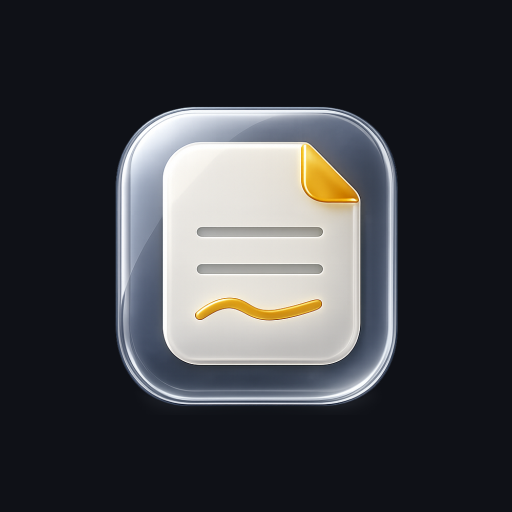
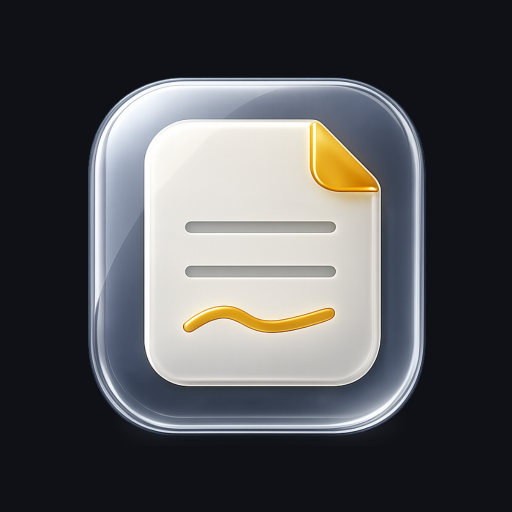
ui: maskable 아이콘 확대 + 북 테마를 전자책 리더처럼
[1. 맥에서 아이콘이 작게 보이던 문제]
크롬은 설치형 앱 아이콘으로 maskable을 쓰는데, 그건 안드로이드 원형 크롭
대비로 0.62(실제 아트 55%)로 잡아둔 값이라 맥/데스크톱에서는 여백만 커 보였다.
- 0.62 → 0.74 (실제 아트 66%)
- 안전구역 계산상 내접 정사각형은 0.566이지만, 실제 마스크는 대부분
  squircle/둥근사각형이라 훨씬 크고 우리 아트도 둥근 사각형이라
  모서리가 조금 잘려도 티가 안 난다. 0.62는 지나치게 보수적이었다

[2. 북 테마 — 전자책 느낌]
기존엔 본문 폰트만 세리프라 "책"보다 "베이지 테마"에 가까웠다.
읽는 느낌을 만드는 건 색이 아니라 활자·행간·한 줄 길이·대비라서 그쪽을 손봤다.

- 활자: 제목·목록·홈 카드까지 세리프로 통일. UI만 산세리프로 남으면
  책 안에 앱이 끼어든 것처럼 보인다
- 행간/폭: 실제 편집기가 CodeMirror라 .bear-editor가 아니라
  .cm-content / .cm-line을 직접 잡아야 했다 (CM이 자체 font-size·max-width를
  갖고 있어 .bear-editor 지정은 전달되지 않음).
  15.5px / 줄높이 34px / 한 줄 34em 제한. 넓은 화면에서 글이 끝까지 늘어지면
  다음 줄 첫 글자를 찾기 어려워 읽는 속도가 떨어진다
- .cm-line의 공책 괘선(border-bottom) 제거 — 전자책엔 줄이 없다
- 대비: 잉크 #3D2A18 → #4A3927, 종이 #F4ECD8 → #F3EAD6.
  전자잉크는 새까맣지 않다
- 목록 구분선 제거, 카드 테두리를 종이색에 가깝게
- 모바일은 기본 규칙(16.5px)에 맞추고 한 줄 제한 해제

Changed region(s): [[0.1562, 0.125, 0.8438, 0.875]]

diff --git a/styles.css b/styles.css
@@ -250,15 +250,90 @@ body[data-theme="book"] {
   --green:#5E7A4E; --orange:#B58840; --red:#A85647; --blue:#5C7A8C; --pink:#A8784C; --cyan:#5E7A4E;
   color-scheme: light;
 }
-/* Book 본문 — 이롭게 바탕 세리프 (책 읽는 느낌) */
+/* ── Book 테마 — 전자책 리더처럼 ──────────────────────────────
+   기존엔 본문 폰트만 세리프라 "책"보다 "베이지 테마"에 가까웠다.
+   읽는 느낌을 만드는 건 색이 아니라 (1) 활자 (2) 행간 (3) 한 줄 길이
+   (4) 낮은 대비 — 네 가지라서 그쪽을 손본다. */
+
+/* (1) 활자 — 본문뿐 아니라 제목·목록·태그까지 세리프로 통일.
+   UI만 산세리프로 남으면 책 안에 앱이 끼어든 것처럼 보인다. */
 body[data-theme="book"] #memo-live-editor .cm-content,
 body[data-theme="book"] .bear-editor,
 body[data-theme="book"] .memo-editor textarea,
 body[data-theme="book"] .markdown-body,
 body[data-theme="book"] .memo-editor-header input,
-body[data-theme="book"] .journal-textarea {
+body[data-theme="book"] .journal-textarea,
+body[data-theme="book"] .memo-item-title,
+body[data-theme="book"] .memo-item-preview,
+body[data-theme="book"] .home-row-title,
+body[data-theme="book"] .home-card-title,
+body[data-theme="book"] .home-card-sub,
+body[data-theme="book"] .day-note-title,
+body[data-theme="book"] h1,
+body[data-theme="book"] h3 {
   font-family: 'IropkeBatang', 'Apple SD Gothic Neo', -apple-system, serif;
   letter-spacing: -0.005em;
+}
+
+/* (2) 행간 + (3) 한 줄 길이 — 종이책의 읽기 리듬.
+   실제 편집기는 CodeMirror라서 .cm-content / .cm-line을 직접 잡아야 한다.
+   (.bear-editor는 마운트 지점일 뿐이고 CM이 자체 font-size·max-width를 갖는다)
+   한 줄을 34em 안쪽으로 묶는 이유: 넓은 화면에서 글이 끝까지 늘어지면
+   다음 줄 첫 글자를 찾기 어려워 읽는 속도가 떨어진다. */
+body[data-theme="book"] #memo-live-editor .cm-content {
+  font-size: 15.5px;
+  max-width: 34em;
+  padding: 34px 24px 80px;
+  margin: 0 auto;
+}
+body[data-theme="book"] #memo-live-editor .cm-line {
+  min-height: 34px;
+  line-height: 34px;
+  /* 공책 괘선 제거 — 전자책엔 줄이 없다 */
+  border-bottom: none;
+}
+body[data-theme="book"] .markdown-body {
+  font-size: 15.5px;
+  line-height: 2.0;
+  padding: 34px 24px 60px;
+  max-width: 34em;
+  margin: 0 auto;
+  width: 100%;
+}
+@media (max-width: 768px) {
+  /* 모바일 기본 규칙이 가독성 때문에 16.5px로 키우므로 북 테마도 맞춘다.
+     좁은 화면에선 한 줄 제한이 의미 없으니 폭 제한도 푼다. */
+  body[data-theme="book"] #memo-live-editor .cm-content {
+    padding: 18px 18px 140px !important;
+    max-width: 100%;
+    font-size: 16.5px;
+  }
+  body[data-theme="book"] .markdown-body {
+    padding: 18px 18px 60px; max-width: 100%; font-size: 16.5px;
+  }
+}
+
+/* 문단 사이를 벌려 장(章) 구분처럼 — 종이책의 여백감 */
+body[data-theme="book"] .markdown-body p { margin: 0 0 1.1em; }
+body[data-theme="book"] .markdown-body h1 {
+  font-size: 24px; border-bottom: none;
+  margin: 32px 0 14px; text-align: center; letter-spacing: 0.02em;
+}
+body[data-theme="book"] .markdown-body h2 { font-size: 19px; margin: 26px 0 10px; }
+
+/* (4) 낮은 대비 — 전자잉크는 새까맣지 않다.
+   본문 잉크를 살짝 눅이고 종이도 한 톤 가라앉혀 눈부심을 줄인다. */
+body[data-theme="book"] {
+  --text: #4A3927;
+  --bg: #F3EAD6;
+  --surface: #F8F1DF;
+}
+/* 구분선은 거의 지운다 — 책에는 격자가 없다 */
+body[data-theme="book"] .memo-item { border-bottom: none; }
+body[data-theme="book"] .home-card,
+body[data-theme="book"] .set-group,
+body[data-theme="book"] .day-notes-card {
+  border-color: rgba(124, 92, 58, 0.16);
 }
 
 /* Handwritten — 따뜻한 살구 + 손글씨(메모먼트 꾸꾸꾹) 모든 글자에 적용 */

diff --git a/index.html b/index.html
@@ -26,7 +26,7 @@
 <link rel="preconnect" href="https://fonts.gstatic.com" crossorigin>
 <link href="https://fonts.googleapis.com/css2?family=Crimson+Pro:ital,wght@0,400;0,500;0,600;0,700;1,400&family=Inter:wght@400;500;600;700;800&display=swap" rel="stylesheet">
 <link href="https://fonts.googleapis.com/css2?family=Material+Symbols+Rounded:opsz,wght,FILL,GRAD@20..48,300..600,0..1,-25..200&display=swap" rel="stylesheet">
-<link rel="stylesheet" href="styles.css?v=20260729k">
+<link rel="stylesheet" href="styles.css?v=20260729l">
 </head>
 <body>
 <div class="app">

diff --git a/service-worker.js b/service-worker.js
@@ -8,7 +8,7 @@
 //   - 사용자 PWA에서 옛 SW가 캐시 잡고 있던 케이스 대응: install·activate 시 ALL 캐시
 //     삭제 + 클라이언트에 reload 메시지 전송 (controllerchange 발생 시 main.js가 reload)
 
-const CACHE_NAME = 'mindflow-cache-v33'; // Google 일정 월 단위 로드
+const CACHE_NAME = 'mindflow-cache-v34'; // maskable 아이콘 확대 + 북 테마 전자책화
 
 self.addEventListener('install', (event) => {
   event.waitUntil((async () => {

diff --git a/tools/gen-icons.js b/tools/gen-icons.js
@@ -185,8 +185,8 @@ function render(N, fill, CROP) {
 const jobs = [
   ['icon-192.png', 192, 1.0, CROP_TIGHT],
   ['icon-512.png', 512, 1.0, CROP_TIGHT],
-  ['icon-192-maskable.png', 192, 0.62, CROP_LOOSE],
-  ['icon-512-maskable.png', 512, 0.62, CROP_LOOSE],
+  ['icon-192-maskable.png', 192, 0.74, CROP_LOOSE],
+  ['icon-512-maskable.png', 512, 0.74, CROP_LOOSE],
   ['apple-touch-icon-180.png', 180, 1.0, CROP_TIGHT],
 ];
 for (const [name, N, fill, crop] of jobs) {
